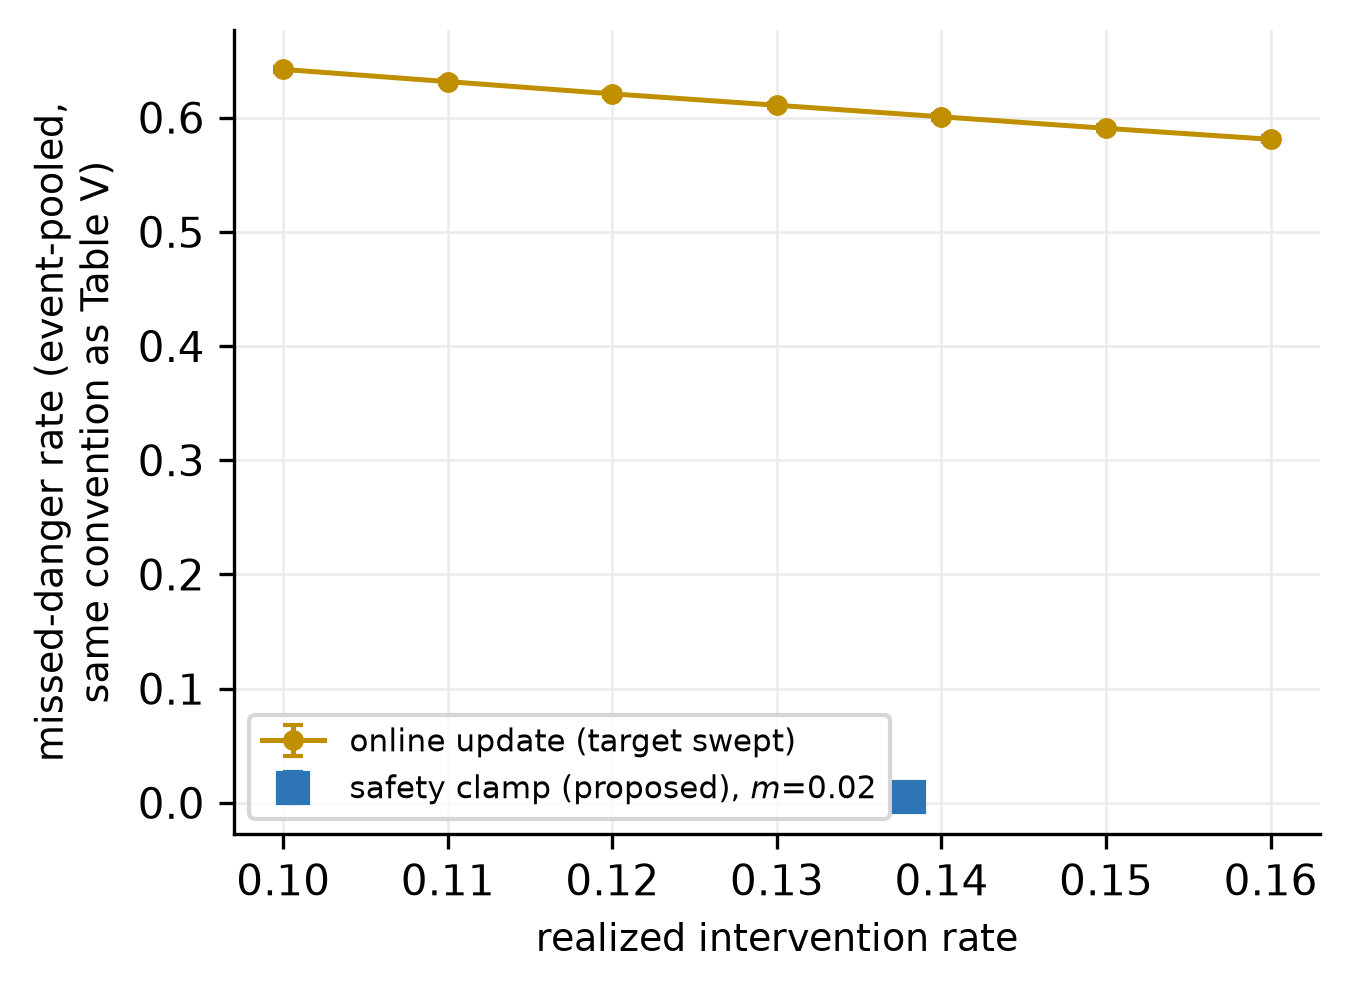
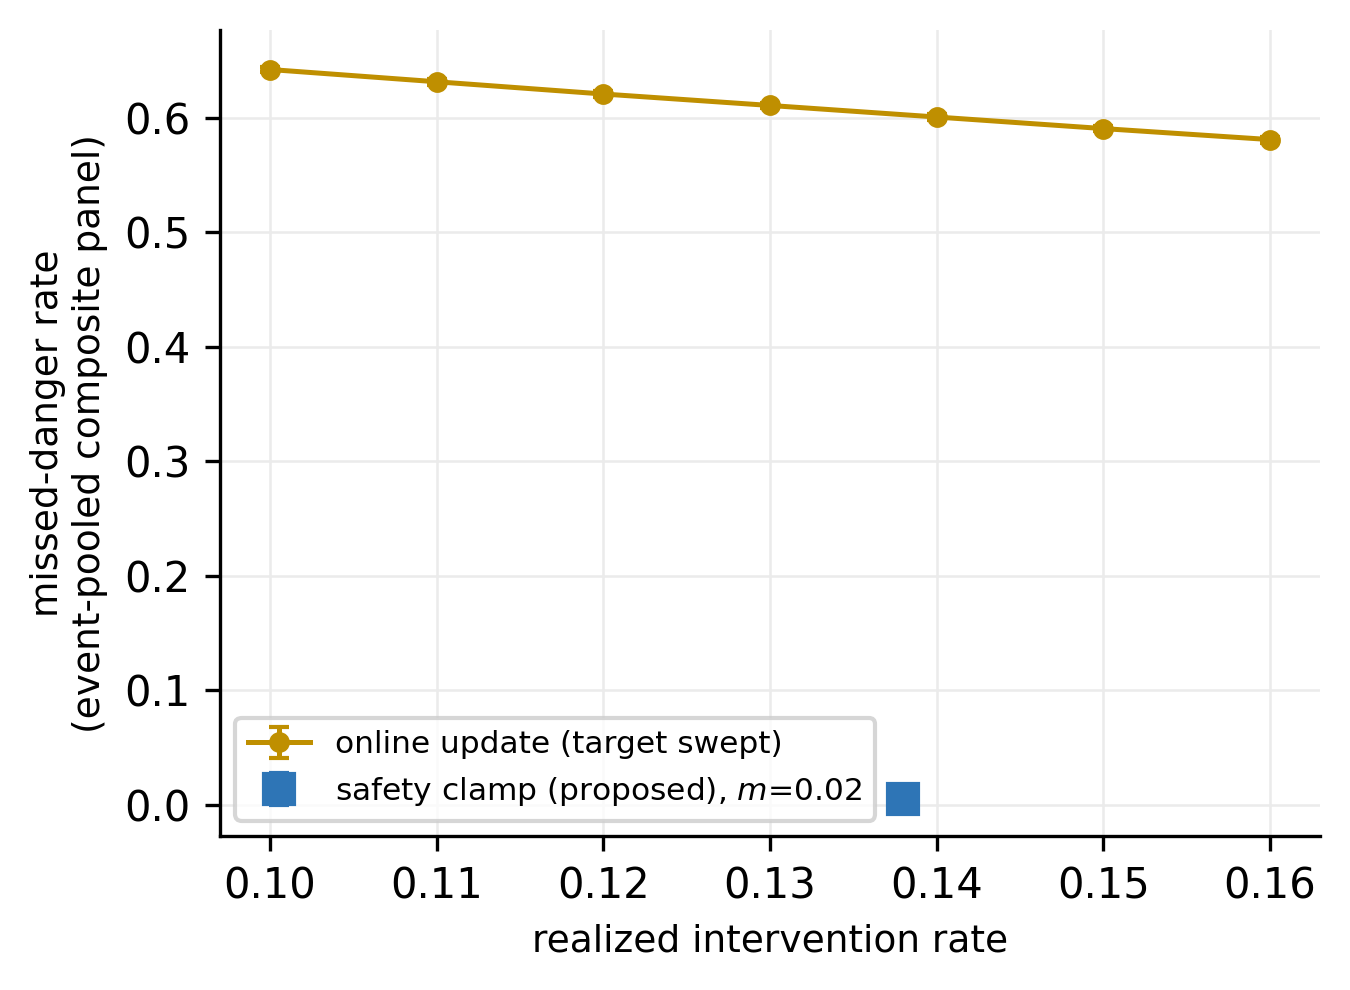
Rate-matched figure: neutral axis label (renumbering-proof); same fix in generating script

diff --git a/scripts/revision/revision_reruns_part4.py b/scripts/revision/revision_reruns_part4.py
@@ -137,7 +137,7 @@ def main():
                 fmt="s",color="#2E75B6",ms=7,capsize=2.5,zorder=5,
                 label="safety clamp (proposed), $m$=0.02")
     ax.set_xlabel("realized intervention rate",fontsize=9)
-    ax.set_ylabel("missed-danger rate (event-pooled,\nsame convention as Table V)",fontsize=9)
+    ax.set_ylabel("missed-danger rate\n(event-pooled composite panel)",fontsize=9)
     ax.legend(fontsize=7.5); ax.grid(color="0.92",lw=0.6)
     for s in ("top","right"): ax.spines[s].set_visible(False)
     fig.tight_layout(); fig.savefig(os.path.join(here,"Paper4_RateMatched.png"),bbox_inches="tight")
